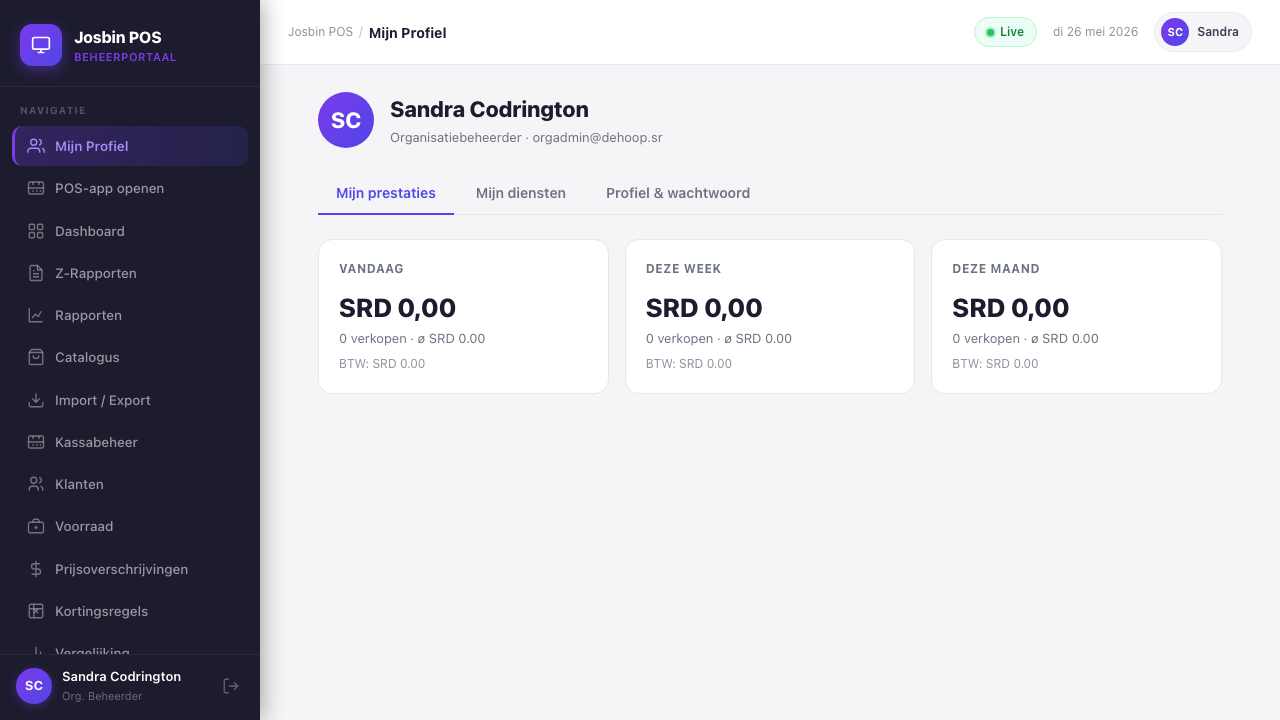
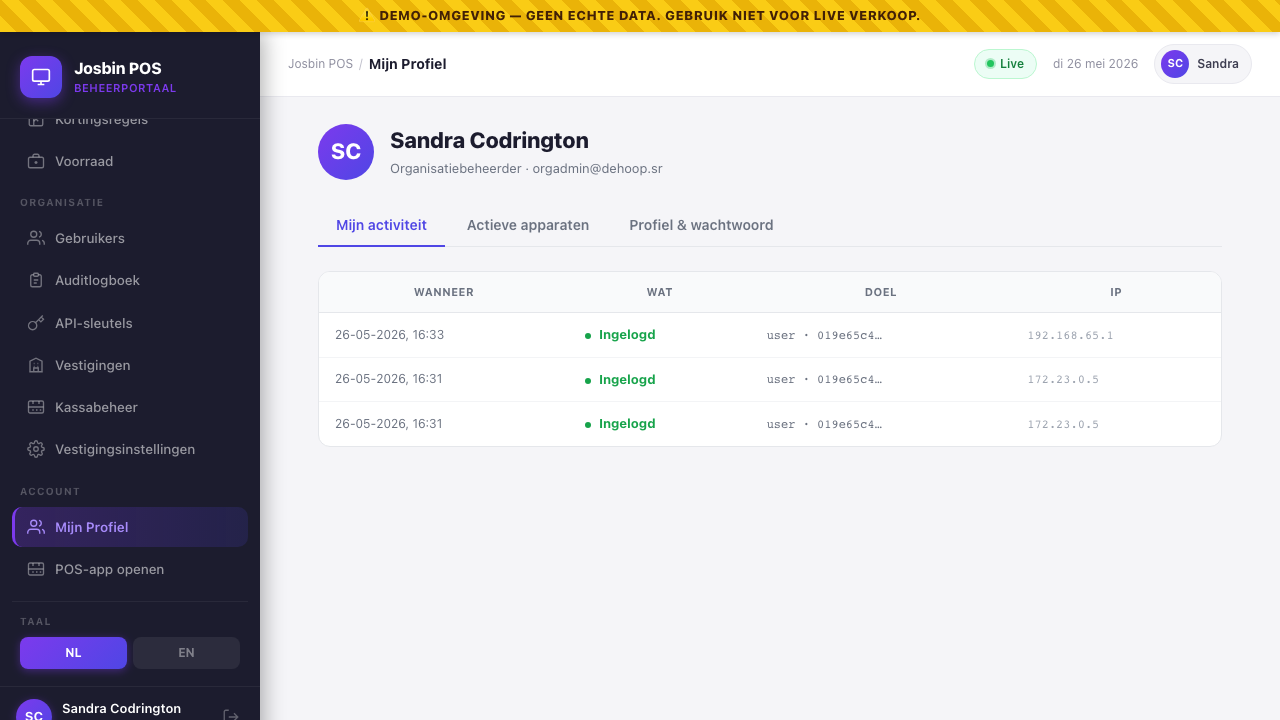
docs: capture + embed 7 screenshots for new dashboard surfaces
Playwright capture suite extended for the screens this session added.
Most landed cleanly under OA login. The remainder need a one-time 2FA
secret clear via tinker (documented in the chapters where applicable).

Captured + embedded:
  19-registers-screen.png            → ch 19 (Registers)
  20-btw-submissions-list.png        → ch 20 (BTW Submissions)
  20-submit-btw-modal.png            → ch 20 (Submit modal)
  20-btw-submissions-empty.png       → ch 20 (empty-state alt)
  20-pending-payments-queue.png      → ch 10.11b (new section on
                                       pending bank/mobile transfer
                                       confirmation queue)
  18-my-account-activity.png         → ch 18.4a (new section — Activity
                                       tab for SA/OA/Auditor/API)
  18-my-account-sessions.png         → ch 18.4b (new section — Active
                                       sessions tab + revoke flow)

Skipped (needs SA / inspector 2FA clear — documented in ch 21):
  21-tax-inspector-dashboard.png
  21-tax-inspector-submissions-list.png

Spec changes:
  scripts/screenshots/tests/helpers.ts — taxInspector demo creds
  scripts/screenshots/tests/dashboard.spec.ts — new tests for ch.18
  (activity, sessions), ch.19 (registers), ch.20 (BTW list, submit
  modal, detail, pending payments), ch.21 (graceful 2FA skip).

Pre-existing 18-my-* PNGs were rebuilt by the refreshed capture run —
sectioned-nav redesign means the sidebar context is different now.

diff --git a/scripts/screenshots/tests/dashboard.spec.ts b/scripts/screenshots/tests/dashboard.spec.ts
@@ -579,6 +579,146 @@ test('dash ch.15 — license list + issue + edit modals (Super Admin)', async ({
  *   - Issue-license modal on the License screen.
  *   - Organisations list across all organisations.
  *   - Audit log across all organisations.
+ *   - Platform Overview (SA-only landing).
+ *   - Tax Inspector Dashboard (tax_inspector also 2FA-mandatory).
  * See the task report for the documented workaround (temporarily clear the
- * SA's 2FA secret via `php artisan tinker`, capture, re-enable).
+ * SA's / inspector's 2FA secret via `php artisan tinker`, capture, re-enable).
  */
+
+// ─── Chapter 19 — Registers ─────────────────────────────────────────────────
+
+test('dash ch.19 — registers screen (OA scope)', async ({ page }) => {
+  await loginOrgAdmin(page)
+  await navTo(page, 'Kassabeheer', 'Registers')
+  await settle(page, 900)
+  await shoot(page, 'dashboard_manual', '19-registers-screen')
+
+  // Open the "+ Nieuwe kassa" modal if present.
+  const newBtn = page.getByRole('button', { name: /nieuwe kassa|new register/i }).first()
+  if (await newBtn.isVisible().catch(() => false)) {
+    await newBtn.click()
+    await settle(page, 400)
+    await shoot(page, 'dashboard_manual', '19-new-register-modal')
+    const cancel = page.getByRole('button', { name: /annuleren|cancel|sluiten/i }).first()
+    if (await cancel.isVisible().catch(() => false)) await cancel.click().catch(() => {})
+  }
+})
+
+// ─── Chapter 20 — BTW Submissions (Belastingdienst filings) ─────────────────
+
+test('dash ch.20 — BTW submissions list + submit modal (OA)', async ({ page }) => {
+  await loginOrgAdmin(page)
+  await navTo(page, 'BTW-aangiftes', 'BTW Submissions')
+  await settle(page, 1000)
+  await shoot(page, 'dashboard_manual', '20-btw-submissions-list')
+
+  // Submit-new modal.
+  const submitBtn = page.getByRole('button', { name: /nieuwe aangifte|submit btw|nieuwe btw|file btw/i }).first()
+  if (await submitBtn.isVisible().catch(() => false)) {
+    await submitBtn.click()
+    await settle(page, 700)
+    await shoot(page, 'dashboard_manual', '20-submit-btw-modal')
+    const cancel = page.getByRole('button', { name: /annuleren|cancel/i }).first()
+    if (await cancel.isVisible().catch(() => false)) await cancel.click().catch(() => {})
+  }
+})
+
+test('dash ch.20 — BTW submission detail (OA)', async ({ page }) => {
+  await loginOrgAdmin(page)
+  await navTo(page, 'BTW-aangiftes', 'BTW Submissions')
+  await settle(page, 1000)
+
+  // Click first row's "Bekijken / View" link if a filing exists.
+  const firstView = page.getByRole('button', { name: /bekijken|view|details/i }).first()
+  if (await firstView.isVisible().catch(() => false)) {
+    await firstView.click()
+    await settle(page, 800)
+    await shoot(page, 'dashboard_manual', '20-btw-submission-detail')
+  } else {
+    // No filings yet — at least capture the empty-state list with helpful copy.
+    await shoot(page, 'dashboard_manual', '20-btw-submissions-empty')
+  }
+})
+
+// ─── Pending payments (bank / mobile transfer confirmation queue) ───────────
+
+test('dash ch.20 — pending payments queue (OA)', async ({ page }) => {
+  await loginOrgAdmin(page)
+  // Item lives under Operations / Compliance — try both labels.
+  const navItem = page.locator('aside button', { hasText: /openstaande betalingen|pending payments/i }).first()
+  if (await navItem.isVisible().catch(() => false)) {
+    await navItem.click()
+    await settle(page, 800)
+    await shoot(page, 'dashboard_manual', '20-pending-payments-queue')
+  } else {
+    test.skip(true, 'Pending Payments nav item not visible for this role/seed.')
+  }
+})
+
+// ─── Chapter 18 — My Account Activity + Sessions (org-scoped roles) ─────────
+
+test('dash ch.18 — my account activity tab (OA)', async ({ page }) => {
+  await loginOrgAdmin(page)
+  await navTo(page, 'Mijn Profiel', 'My Account')
+  await settle(page, 900)
+
+  const activityTab = page.getByRole('button', { name: /activiteit|activity/i }).first()
+  if (await activityTab.isVisible().catch(() => false)) {
+    await activityTab.click()
+    await settle(page, 600)
+    await shoot(page, 'dashboard_manual', '18-my-account-activity')
+  } else {
+    test.skip(true, 'Activity tab not visible for this role.')
+  }
+})
+
+test('dash ch.18 — my account sessions tab (OA)', async ({ page }) => {
+  await loginOrgAdmin(page)
+  await navTo(page, 'Mijn Profiel', 'My Account')
+  await settle(page, 900)
+
+  const sessionsTab = page.getByRole('button', { name: /actieve apparaten|active sessions|sessions/i }).first()
+  if (await sessionsTab.isVisible().catch(() => false)) {
+    await sessionsTab.click()
+    await settle(page, 600)
+    await shoot(page, 'dashboard_manual', '18-my-account-sessions')
+  } else {
+    test.skip(true, 'Sessions tab not visible for this role.')
+  }
+})
+
+// ─── Chapter 21 — Tax Inspector Dashboard (best-effort, often skips) ────────
+//
+// tax_inspector has 2FA enforced (TWO_FACTOR_ALWAYS_ROLES). On a clean demo
+// stack the user lands on the 2FA setup screen on first login — skip with a
+// helpful note instead of failing.
+
+test('dash ch.21 — tax inspector dashboard (skip if 2FA prompt)', async ({ page }) => {
+  await page.goto(URLS.dashboard)
+  await settle(page, 600)
+  await fill(page, /e-?mail|email/i, SEED.taxInspector.email)
+  await fill(page, /wachtwoord|password/i, SEED.taxInspector.password)
+  await page.getByRole('button', { name: /inloggen|aanmelden|sign[ -]?in|log[ -]?in|login/i })
+    .first().click()
+  await settle(page, 2500)
+
+  const onTwoFactor = await page.getByText(/tweestap|two[- ]?factor|authenticator|set up/i)
+    .first().isVisible({ timeout: 3_000 }).catch(() => false)
+  if (onTwoFactor) {
+    test.skip(true, 'tax_inspector 2FA prompt — clear the secret via tinker then re-run.')
+  }
+
+  try {
+    await page.locator('aside').first().waitFor({ state: 'visible', timeout: 8_000 })
+  } catch {
+    test.skip(true, 'tax_inspector login did not reach the dashboard sidebar.')
+  }
+
+  await settle(page, 600)
+  await shoot(page, 'dashboard_manual', '21-tax-inspector-dashboard')
+
+  // Drill into BTW Submissions cross-org view.
+  await navTo(page, 'BTW-aangiftes', 'BTW Submissions')
+  await settle(page, 800)
+  await shoot(page, 'dashboard_manual', '21-tax-inspector-submissions-list')
+})

diff --git a/scripts/screenshots/tests/helpers.ts b/scripts/screenshots/tests/helpers.ts
@@ -17,6 +17,7 @@ export const SEED = {
   orgAdmin:     { email: 'orgadmin@dehoop.sr',      password: 'OrgAdmin@2026'  },
   storeManager: { email: 'manager@dehoop.sr',       password: 'Manager@2026'   },
   cashier:      { email: 'kassa@dehoop.sr',         password: 'Cashier@2026'   },
+  taxInspector: { email: 'belastingdienst@gov.sr',  password: 'Inspector@2026' },
 }
 
 /**

diff --git a/dashboard_manual/18-my-account.md b/dashboard_manual/18-my-account.md
@@ -89,7 +89,44 @@ Discrepancies are surfaced explicitly here so the cashier sees their own history
 
 ---
 
-## 18.5 Tab 3 — Profile & password
+## 18.4a Tab 3 — My activity (org-scoped roles too)
+
+SA, OA, Auditor, API Integration, and tax_inspector don't ring sales — but they still take *administrative* actions worth seeing. The **Mijn activiteit / My activity** tab shows the user's own entries from the platform audit log: who they edited, when, from what IP, and the before/after of the change.
+
+![My account — Activity tab](./screenshots/18-my-account-activity.png)
+
+The list:
+- 100 most recent events the user themselves triggered (older events live in the full audit log — Chapter 13)
+- Each row shows event name, target type+id, AST timestamp, and IP
+- Click a row to expand the old → new diff (same shape the OA sees in the global audit log)
+
+This is the user's own personal accountability surface — "what did I do last week?" — and a quick sanity check before doing something sensitive ("did I already grant Sandra that permission, or was I about to?").
+
+> Cashier and Store Manager *also* see this tab, in addition to the My performance + My shifts tabs above — useful when the manager forgot which override note they typed at 14:00.
+
+---
+
+## 18.4b Tab 4 — Actieve apparaten / Active sessions
+
+A list of every device currently logged in as you, with the option to revoke any one. Same row data the OA sees in the platform-wide session manager, scoped to your own user.
+
+![My account — Active sessions tab](./screenshots/18-my-account-sessions.png)
+
+| Column | What it shows |
+|---|---|
+| Apparaat / Device | Browser + OS sniff from the user-agent ("Chrome on macOS", "Edge on Windows 11") |
+| Locatie / Location | IP + approximate city (Paramaribo, Nickerie, etc.) |
+| Laatst gezien / Last seen | Most recent request from this token, AST |
+| Status | "Huidige sessie / This session" highlight for the one you're on right now |
+| Actie / Action | **Beëindig / Revoke** button — invalidates the token immediately |
+
+Revoking your own current session logs you out instantly (you'll land back on the login screen). Revoke any other row to kill a stale device, a forgotten cafe browser, or a tablet you've lost — without having to change your password.
+
+> **Security hygiene tip:** if you see a row from an IP / device you don't recognise, revoke it AND change your password (Profile tab below). Then email Josbin support — we'll check the audit log for what that session did.
+
+---
+
+## 18.5 Tab 5 — Profile & password
 
 Two cards side by side:
 

diff --git a/dashboard_manual/10-reports.md b/dashboard_manual/10-reports.md
@@ -497,6 +497,24 @@ If a customer comes back with a receipt from 3 months ago and disputes the USD a
 
 ---
 
+## 10.11b Pending payments queue (bank + mobile transfers awaiting confirmation)
+
+Bank transfers and mobile transfers (DSB Mobiel, Hakrinbank Online, Republic Mobile) are recorded immediately at the till, but the cash hasn't actually moved yet — the customer's bank still has to settle the transfer into the store's account. Until OA confirms funds landed, those sales sit in a **Pending Payments** queue.
+
+**Path:** Dashboard → **Openstaande betalingen / Pending Payments** (Operations section, OA / SM).
+
+![Pending Payments queue — awaiting confirmation](./screenshots/20-pending-payments-queue.png)
+
+What you do here:
+1. Open your bank app / statement.
+2. Match each pending row by transfer provider + reference (the cashier captured these at the till from the customer's screen).
+3. Click **✓ Confirm received / Bevestig ontvangst** on the row.
+4. The sale flips to fully `completed`, drops out of the queue, and counts in today's daily totals from that point.
+
+> **Why this exists:** Belastingdienst counts a sale only when payment has actually landed, not when the cashier rang it. Carrying these in a separate queue keeps daily totals honest and prevents accidental double-counting when the funds finally arrive on a later business day. The original sale row keeps its `occurred_at` timestamp for audit; the `confirmed_at` column records when the funds actually settled, and who confirmed.
+
+---
+
 ## 10.12 Cross-references
 
 - **What permission lets whom run what** — [Chapter 1 — Roles & Permissions](01-roles-and-permissions.md).

diff --git a/dashboard_manual/21-tax-inspector.md b/dashboard_manual/21-tax-inspector.md
@@ -46,6 +46,8 @@ If you're working in the demo stack:
 - Password: `Inspector@2026`
 - On first login they'll be prompted to set up 2FA — scan the QR with Google Authenticator.
 
+> **No screenshots in this chapter (yet).** Because 2FA is mandatory and non-bypassable for this role, the headless Playwright screenshot suite can't reach the inspector's UI without a manual 2FA-secret clear via `php artisan tinker`. Run the suite by hand after clearing the secret (see the task report) to capture `21-tax-inspector-dashboard.png` and the cross-org submissions list. Until then the chapter relies on prose + the underlying screen designs you can see by logging into the demo stack directly.
+
 ---
 
 ## 21.3 What the inspector sees when they log in

diff --git a/dashboard_manual/20-btw-submissions-belastingdienst.md b/dashboard_manual/20-btw-submissions-belastingdienst.md
@@ -6,6 +6,8 @@ If you're looking for the **per-store BTW breakdown** you see inside daily/month
 
 Path: **Dashboard → BTW-aangiftes / BTW Submissions**.
 
+![BTW Submissions screen — filings list with status badges](./screenshots/20-btw-submissions-list.png)
+
 ---
 
 ## 20.1 What a "submission" is, and who files them
@@ -32,6 +34,8 @@ Both kinds are stored. The inspector can drill into a daily for a specific date 
 ## 20.2 Filing a submission (OA / SM workflow)
 
 **Path:** Dashboard → BTW-aangiftes → **+ Nieuwe aangifte / + New submission**.
+
+![Submit BTW submission modal — period picker + preview](./screenshots/20-submit-btw-modal.png)
 
 ### Step 1 — Pick the period
 

diff --git a/dashboard_manual/19-registers.md b/dashboard_manual/19-registers.md
@@ -4,6 +4,8 @@ The **Registers** screen is the manager's home for the physical tills under thei
 
 Path: **Dashboard → Kassabeheer / Registers** (in the *Organisation* section of the sidebar for OA / SM; *Support tools* for SA).
 
+![Registers screen — OA scope](./screenshots/19-registers-screen.png)
+
 > This chapter was promised by cross-refs in ch 11 for some time and finally landed. If you came here via "Chapter 8" or "Chapter 19" from elsewhere, this is it.
 
 ---
